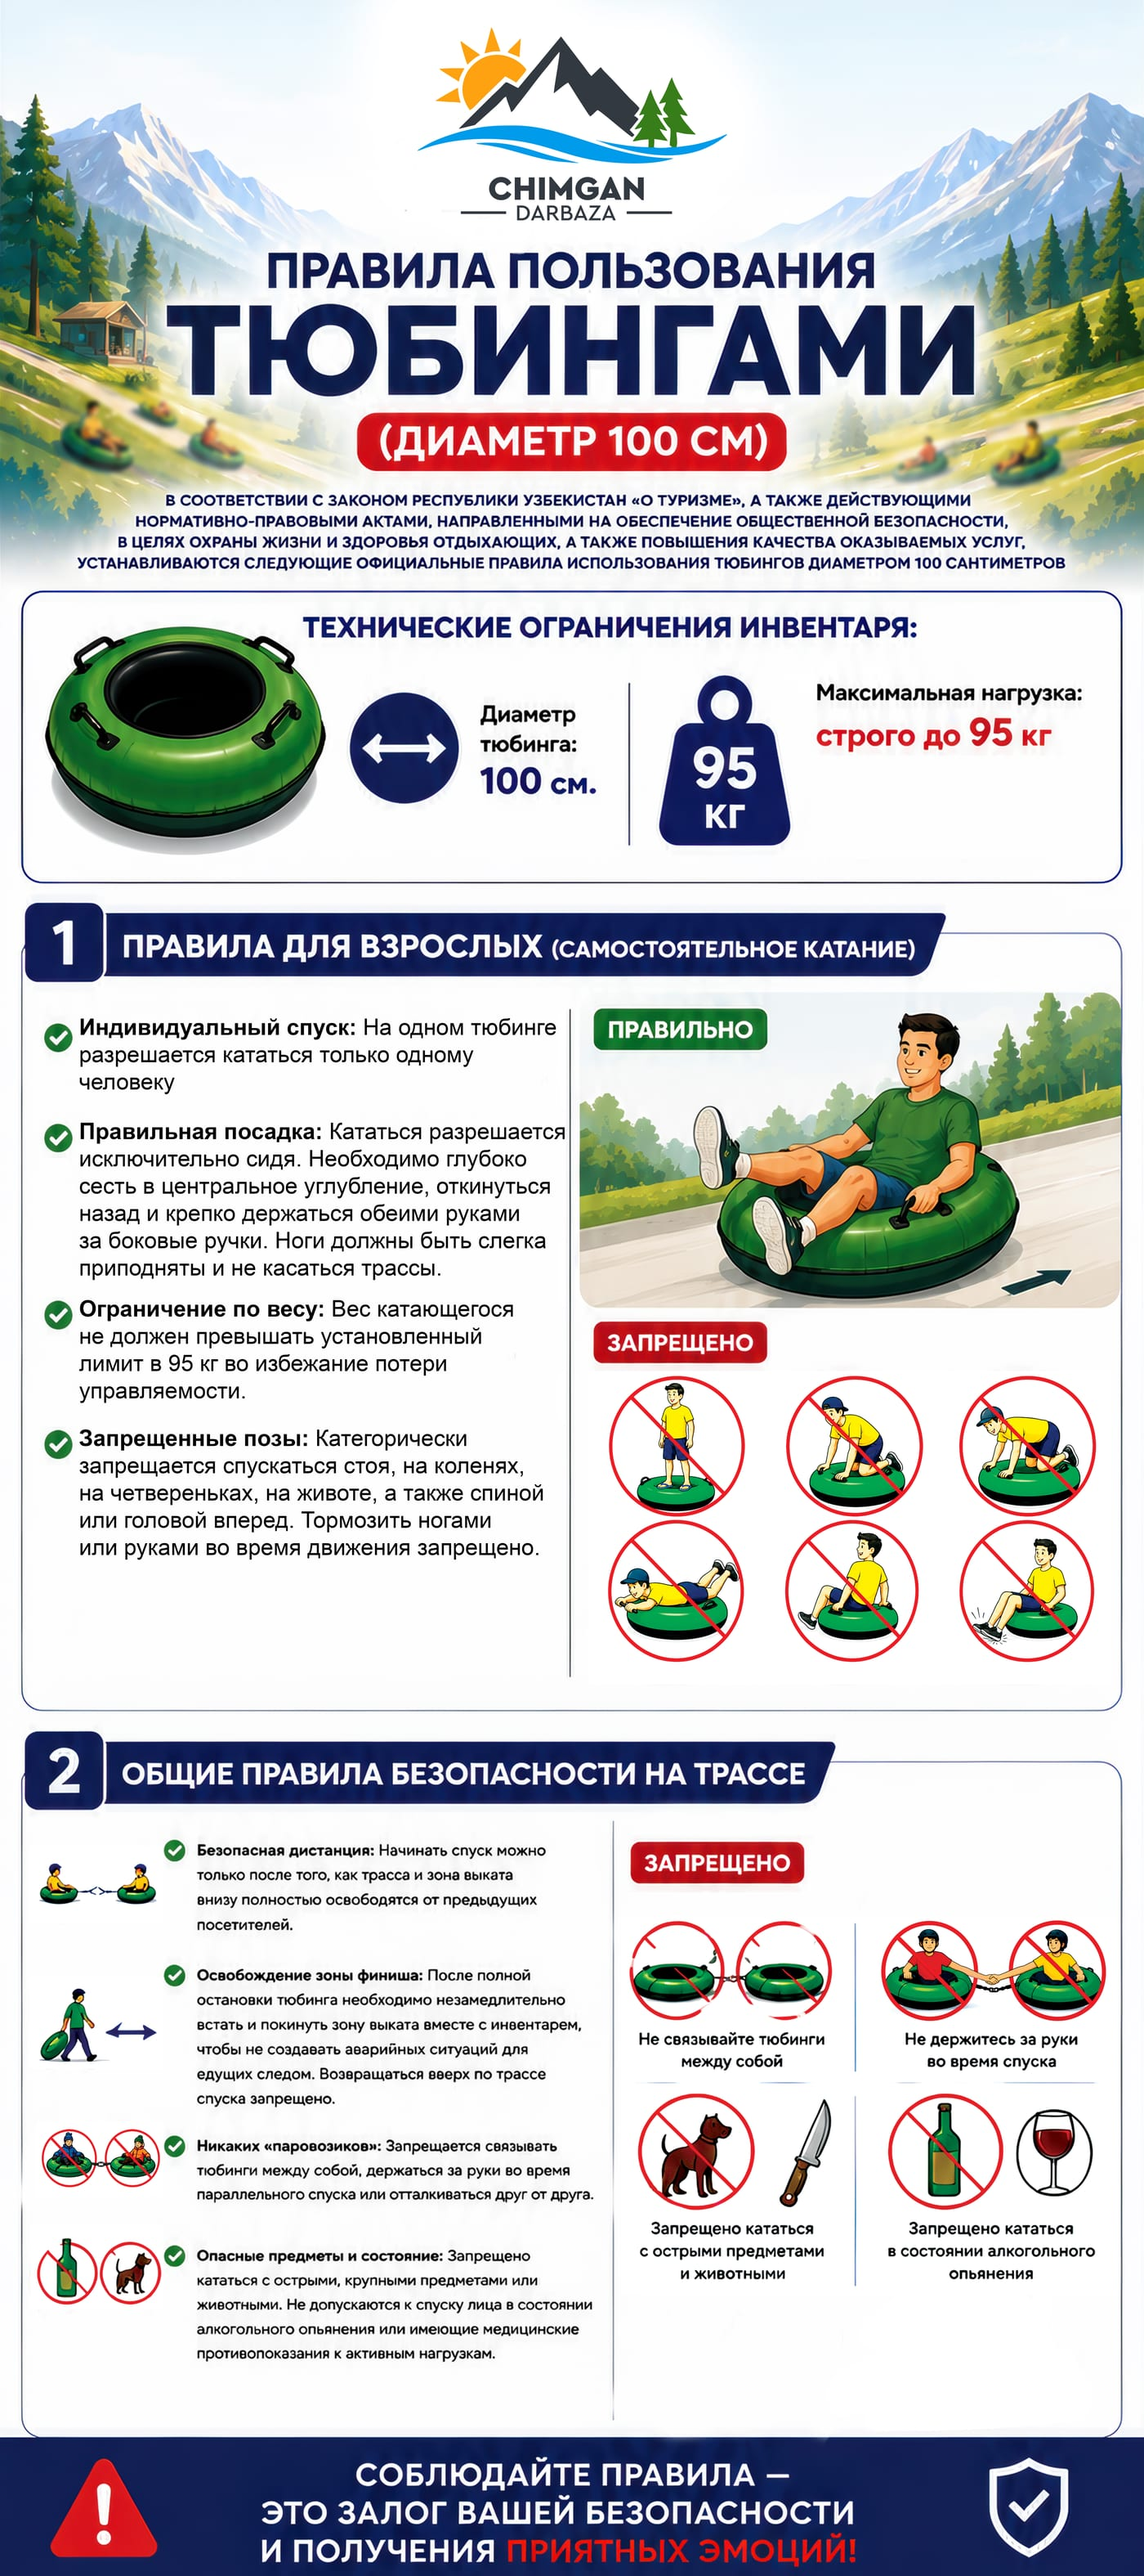
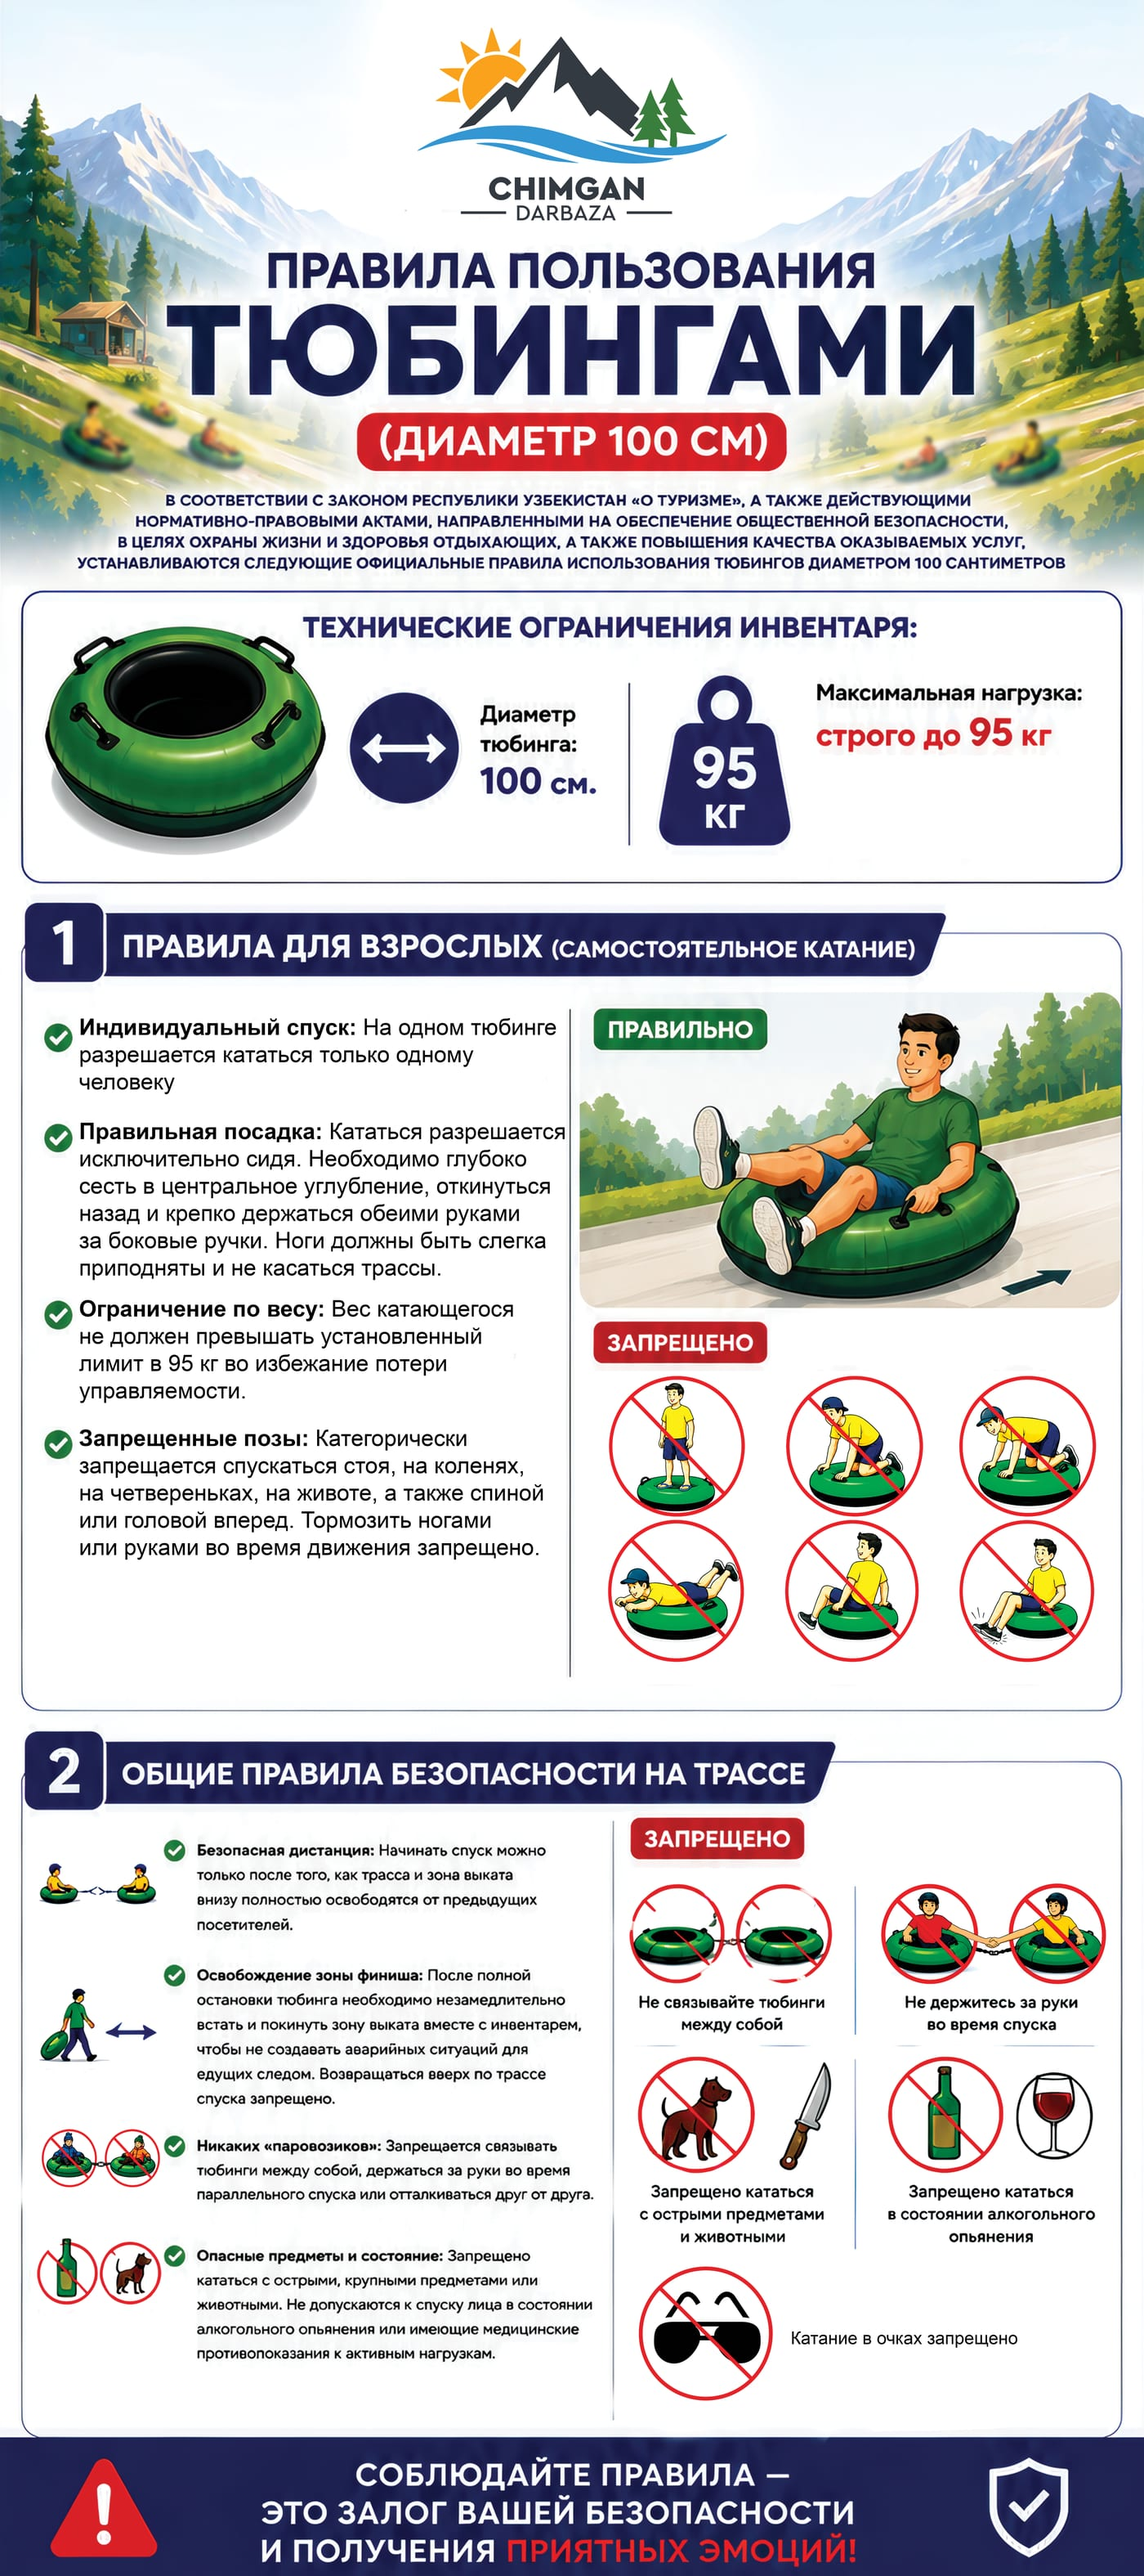
content(tubing): новый плакат оператора — добавлен запрет кататься в очках
Оператор прислал плакаты правил на трёх языках от 24.08.2026. От прежней
версии они отличаются одним пунктом: в разделе запретов появился значок
«катание в очках запрещено».

Плакаты заменены (оригиналы 6299×14173 и по 5–6 МБ ужаты до 1400 px, как
прежние: на экране этого хватает, а полный размер грузился бы дольше самой
страницы). Запрет добавлен отдельным пунктом в правила — на плакате это тоже
отдельный значок, а не приписка к предыдущему.

Оттуда он попадает в Приложение № 1 оферты и в брифинг ИИ-консьержа: гость
должен услышать про очки до приезда, а не у подъёмника.

diff --git a/src/content/tubing-100cm-rules.ts b/src/content/tubing-100cm-rules.ts
@@ -130,18 +130,23 @@ export const tubing100cmPolicySections: TubingSafetySection[] = [
         "Начинать спуск можно только после разрешения оператора, когда трасса и зона выката полностью свободны от предыдущих посетителей.",
         "После полной остановки необходимо незамедлительно встать и покинуть зону выката вместе с тюбингом. Возвращаться вверх по трассе спуска запрещено.",
         "Запрещается связывать или сцеплять тюбинги, держаться за руки при параллельном спуске и отталкиваться друг от друга.",
+        // Новый запрет с плаката оператора от 24.08.2026: отдельным пунктом,
+        // а не припиской к предыдущему — на плакате он тоже отдельный значок.
+        "Кататься в очках запрещено.",
         "Запрещено кататься с острыми или крупными предметами и животными. К спуску не допускаются лица в состоянии алкогольного, наркотического или токсического опьянения либо имеющие медицинские противопоказания к активным нагрузкам.",
       ],
       uz: [
         "Faqat operator ruxsatidan so'ng, trassa va to'xtash hududi avvalgi tashrif buyuruvchilardan to'liq bo'shaganida uchishni boshlash mumkin.",
         "Tyubing to'liq to'xtagach, darhol turib, tyubing bilan birga to'xtash hududini tark etish kerak. Uchish trassasi bo'ylab yuqoriga qaytish taqiqlanadi.",
         "Tyubinglarni bog'lash yoki ulash, parallel uchishda qo'l ushlash va bir-birini itarish taqiqlanadi.",
+        "Ko'zoynakda uchish taqiqlanadi.",
         "O'tkir yoki katta buyumlar va hayvonlar bilan uchish taqiqlanadi. Alkogol, giyohvand yoki zaharli moddalar ta'siridagi hamda faol jismoniy yuklamaga tibbiy qarshi ko'rsatmasi bor shaxslar uchishga qo'yilmaydi.",
       ],
       en: [
         "Start only after the operator gives permission and the track and run-out area are completely clear of previous riders.",
         "After the tube stops completely, stand up immediately and leave the run-out area with the tube. Do not walk back up the descent track.",
         "Do not tie or connect tubes, hold hands during parallel descents or push away from another rider.",
+        "Riding with glasses is prohibited.",
         "Do not ride with sharp or bulky objects or with animals. Anyone under the influence of alcohol, narcotics or toxic substances, or with medical contraindications to active exertion, is not permitted to ride.",
       ],
     },

diff --git a/src/lib/venue-facts.ts b/src/lib/venue-facts.ts
@@ -167,6 +167,7 @@ export function venueCore(live: LivePricing = resolvePricing()): string {
 - ТОПЧАН И БАССЕЙН БЕЗ ЗАЯВКИ НЕ ГАРАНТИРОВАНЫ: место закрепляет администратор после подтверждения. Не обещай, что по приезде будет свободно.
 - ТЮБИНГ: ${packages}. Одна цена всю неделю. Работает ${tubingPricing.hours}, кататься без инструктора нельзя.
 - НА ТЮБИНГЕ КАТАЕТСЯ ОДИН ЧЕЛОВЕК: совместный спуск взрослого с ребёнком запрещён (18.08.2026). Дети младше 4 лет не допускаются; старше — только если едут сами (обычно рост от 140 см). Предел 95 кг — вес катающегося. Трасса ${tubingPricing.length} м длиной и ${tubingPricing.width} м шириной, ВСЕСЕЗОННАЯ — работает круглый год, не только по снегу. Подъём автоматический, пешком в горку идти не нужно; одновременно спускаются до ${tubingPricing.simultaneous} человек. Заявка: /<локаль>/tubing
+- НА ТЮБИНГЕ ЗАПРЕЩЕНО: кататься в очках (плакат оператора 24.08.2026), с острыми и крупными предметами, с животными, в состоянии опьянения. Максимальная нагрузка 95 кг, диаметр тюбинга 100 см. Спускаться только сидя.
 - БАССЕЙН: Пн–Чт ${money(live.pool.adult.weekday)} / Пт–Вс ${money(live.pool.adult.weekend)} сум со взрослого; дети 5–15 — ${money(live.pool.child.weekday)} / ${money(live.pool.child.weekend)}; до 5 лет бесплатно. Пятница — ВЫХОДНОЙ тариф. Посетителям ${poolPricing.hours}, проживающим ${poolPricing.hoursForStayingGuests}, топчан ${topchanPricing.hours} — три разных окна. Заявка: /<локаль>/nomera/pool
 - Вход на территорию БЕСПЛАТНЫЙ. Парковка бесплатна проживающим, бассейну и топчану (топчану — по наличию мест, не гарантирована). Платная только у тюбинга: ${money(live.parking)} сум за автомобиль.
 - БАССЕЙН ВОКРУГ ПРОЖИВАНИЯ: до заезда с подтверждённой бронью бесплатно, после выезда ${money(live.pool.afterCheckOut)} сум за день; предупредить администрацию заранее.

diff --git a/src/content/policies-tubing.test.ts b/src/content/policies-tubing.test.ts
@@ -1,6 +1,7 @@
 import { describe, expect, it } from "vitest";
 import { getDayProduct } from "./day-products";
 import { policies } from "./policies";
+import { tubing100cmOfferSection, tubing100cmPolicySections } from "@/content/tubing-100cm-rules";
 
 describe("правила тюбинговой горки", () => {
   const rules = policies.find((policy) => policy.slug === "tubing-rules");
@@ -94,5 +95,23 @@ describe("страница услуги тюбинга", () => {
     expect(ru).toContain("100 см");
     expect(ru).toContain("95 кг");
     expect(ru).toContain("140 см");
+  });
+});
+
+describe("плакат от 24.08.2026", () => {
+  it("запрет кататься в очках попал во все три языка", () => {
+    // На плакате это отдельный значок в разделе запретов, значит и в правилах
+    // это отдельный пункт, а не приписка к предыдущему.
+    const section = tubing100cmPolicySections.find((s) =>
+      s.title.ru.includes("Общие правила безопасности"),
+    );
+    expect(section).toBeDefined();
+    expect(section!.items.ru).toContain("Кататься в очках запрещено.");
+    expect(section!.items.uz).toContain("Ko'zoynakda uchish taqiqlanadi.");
+    expect(section!.items.en).toContain("Riding with glasses is prohibited.");
+  });
+
+  it("запрет доехал до приложения оферты — гость читает его там", () => {
+    expect(tubing100cmOfferSection.items.ru).toContain("Кататься в очках запрещено.");
   });
 });
